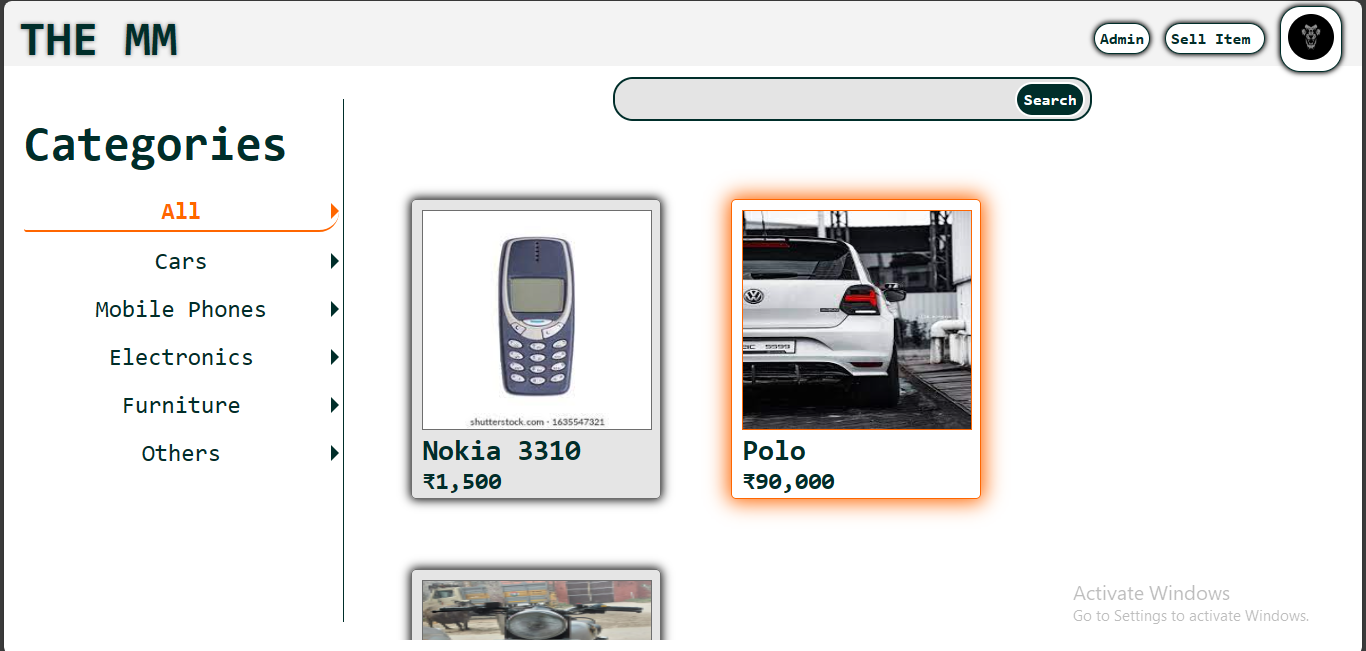
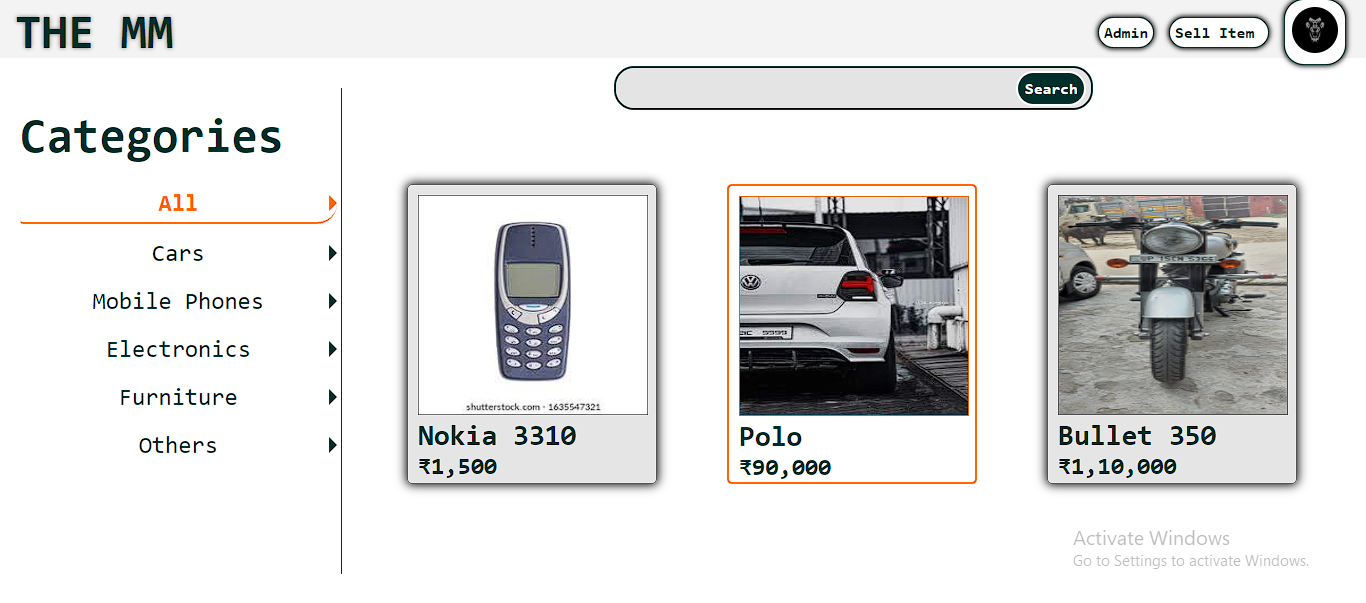
updated screenshot

diff --git a/static/css/home.css b/static/css/home.css
@@ -1,8 +1,8 @@
 /* ----------HOVER CLASSES-------- */
 
 .on-listing-hover:hover {
-    border: 1px solid var(--hoverColor);
-    box-shadow: 0 0 20px 3px;
+    border: 2px solid var(--hoverColor);
+    box-shadow: none;
     color: var(--hoverColor);
     background-color: rgba(202, 202, 202, 0);
 }
@@ -177,7 +177,7 @@
     margin: 35px;
     height: 300px;
     padding: 10px;
-    box-shadow: 0 0 10px 1px;
+    box-shadow: 0 0 5px 2px;
 }
 
 .item-container>img {

diff --git a/static/css/profile.css b/static/css/profile.css
@@ -5,7 +5,8 @@
     background-color: rgba(202, 202, 202, 0);
 }
 .item-container:hover{
-    box-shadow: 0 0 20px 3px;
+    border: 2px solid var(--hoverColor);
+    box-shadow: none;
     color: var(--hoverColor);
 }
 

diff --git a/static/css/admin_user.css b/static/css/admin_user.css
@@ -3,7 +3,7 @@
 .on-listing-hover:hover {
     border: 1px solid var(--hoverColor);
     color: var(--hoverColor);
-    box-shadow: 0 0 20px 3px;
+    box-shadow: 0 0 0px 2px;
 }
 
 .on-listing-hover:hover .item-image {
